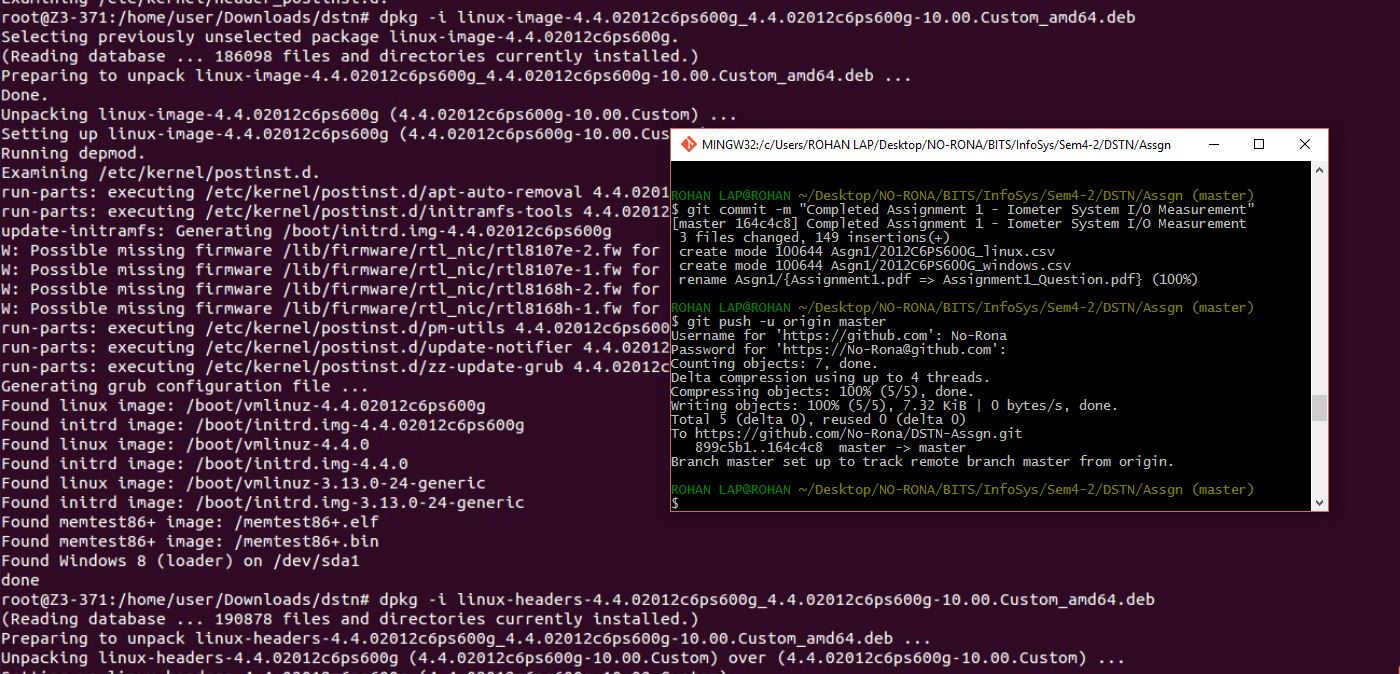
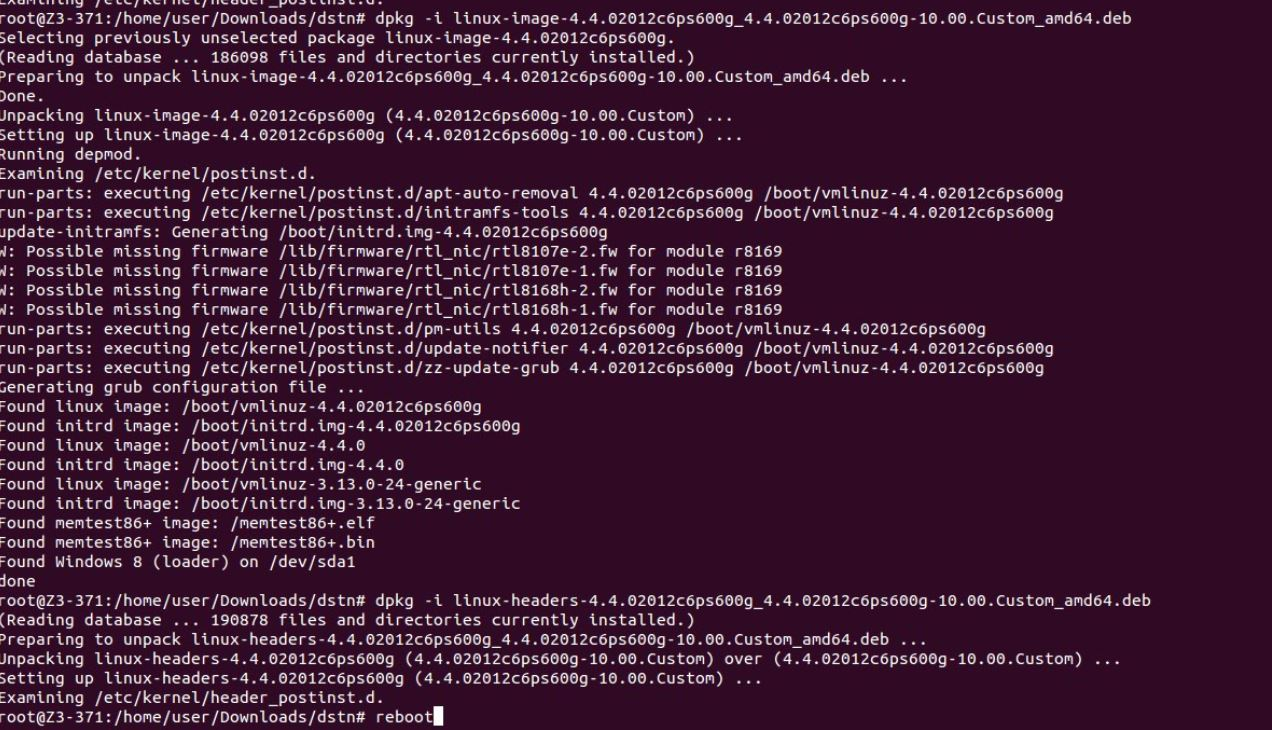
Added corrected README and changed install commang screenshot

diff --git a/Asgn2/README.md b/Asgn2/README.md
@@ -1,18 +1,63 @@
-Recompile 64bit Linux Kernal
+Recompile 64bit Linux Kernel
 ========================
+
+
+----------
+
 
 > **Data Storage Technologies and Networks**  
 > **Assignment 2**
 > 
 > *Name* :        **Rohan Noronha**  
-> *ID No *:        **2012C6PS600G **
+> *ID No* :        **2012C6PS600G **
 
 
-Steps followed
------------------
+----------
 
- 1. Check the existing systems using the command `uname -r`   
 
-<center>![enter image description here](https://raw.githubusercontent.com/No-Rona/DSTN-Assgn/master/Asgn2/initial_kernal.JPG "linux kernal before")<center>
+Steps followed:
+------------------
 
-1.
+ + Check the existing system kernel release using the command `uname -r`  
+ 
+<center>![alt text](https://raw.githubusercontent.com/No-Rona/DSTN-Assgn/master/Asgn2/initial_kernal.JPG "initial kernel")<center>
+
++ Download latest kernel stable release from [The Linux Kernel Archives](https://www.kernel.org/ "Kernel Archives") (*Here we download version 4.4*) 
+
+<center>![alt text](https://raw.githubusercontent.com/No-Rona/DSTN-Assgn/master/Asgn2/kernel_archive.JPG "www.kernel.org")<center>
+Unzip the contents of the folder with the command `tar -xvJf linux-4.4.tar.xz`
+
++ Install **fakeroot** (*creates a psuedo root environment*) and **libncurses** (*to create user-interface in text mode*) using the following commands
+`sudo apt-get install fakeroot kernel-package`
+`sudo apt-get install libncurses5-dev`
+
+<center>![alt text](https://raw.githubusercontent.com/No-Rona/DSTN-Assgn/master/Asgn2/libncurses5.JPG "install necessary packages")<center>
+
++ Inside the unzipped directory run `make menuconfig`and select `save` to save the configuration as a .config file.  (*Without making modifications*)
+
+<center>![alt text](https://raw.githubusercontent.com/No-Rona/DSTN-Assgn/master/Asgn2/menuconfig_visual.JPG "menuconfig user-interface")<center>
+<center>![alt text](https://raw.githubusercontent.com/No-Rona/DSTN-Assgn/master/Asgn2/menuconfig_save.JPG "save .config file")<center>
+
++ Run the command
+`fakeroot make-kpkg -j 1 --initrd --append-to-version=your-name kernel-image kernel-headers`
+  This command does the following
+  1. builds the kernel
+  2. creates the necessary .deb files for installation
+  3. appends **your-name** string to the kernel release
+
+<center>![alt text](https://raw.githubusercontent.com/No-Rona/DSTN-Assgn/master/Asgn2/make-install_fakeroot.JPG "build kernel")<center>
+
++ In the parent directory, the header and image `.deb` files are created. Install them using the `dpkg -i` command.
+  In this case the commands were
+  ```
+  dpkg -i linux-image-4.4.02012c6ps600g_4.4.02012c6ps600g-10.00.Custom_amd64.deb
+  dpkg -i linux-headers-4.4.02012c6ps600g_4.4.02012c6ps600g-10.00.Custom_amd64.deb
+  ```
+<center>![alt text](https://raw.githubusercontent.com/No-Rona/DSTN-Assgn/master/Asgn2/load_headers_img.JPG "install new kernel")<center>  
+
++ Reboot the system and check if the new kernel has been installed
+
+<center>![alt text](https://raw.githubusercontent.com/No-Rona/DSTN-Assgn/master/Asgn2/final_kernal.JPG "ALL DONE!")<center>  
+
+**Note:** 
+Check the necessary kernel modules  in `/lib/modules` and the kernel files in `/usr/src` to make sure the correct kernel has been built.
